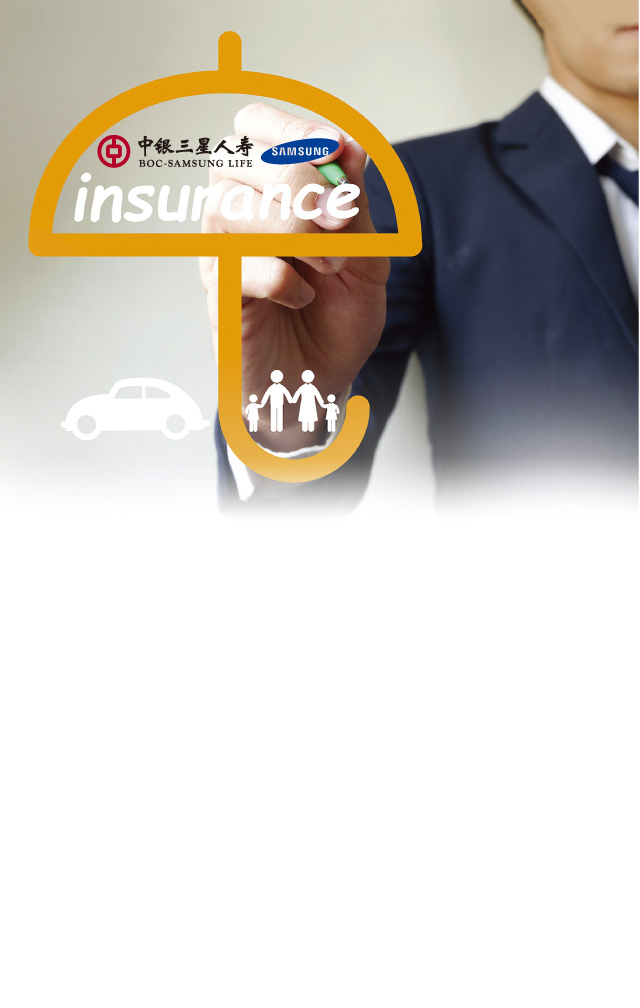
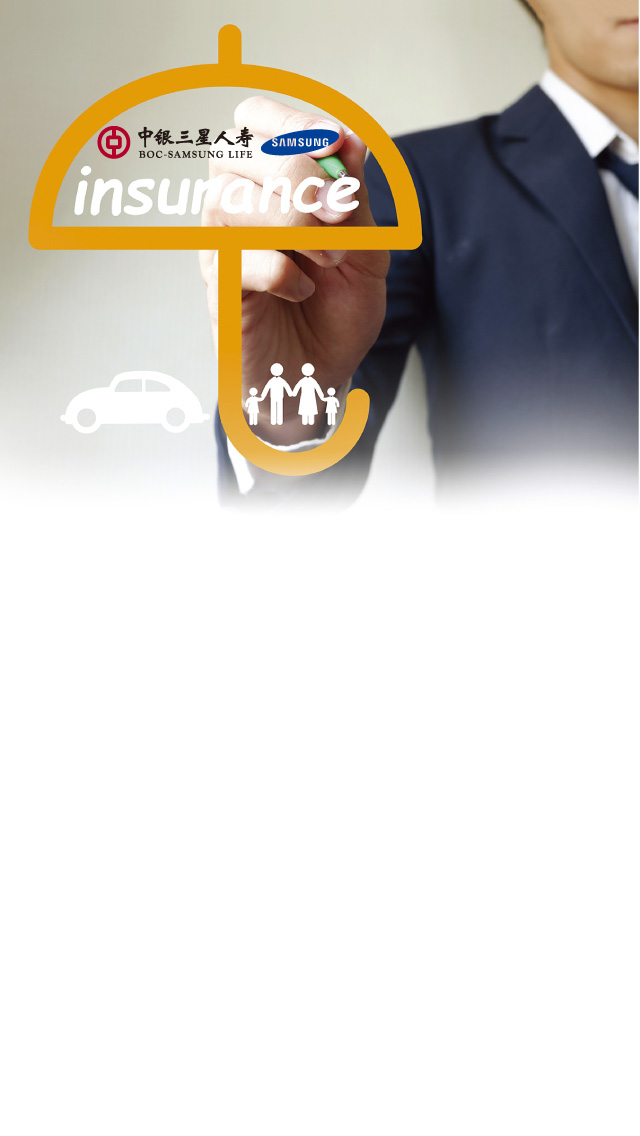
new

diff --git a/css/index.css b/css/index.css
@@ -104,11 +104,11 @@ html,body{
     .slide1 img:nth-child(4){
         width: 320pt;
         height: 7pt;
-        top: 8.5rem;
+        top: 8.4rem;
     }
     .slide1 img:nth-child(5){
         left: 0.6rem;
-        top: 9.4rem;
+        top: 9.1rem;
         width: 224pt;
         height: auto;
     }
